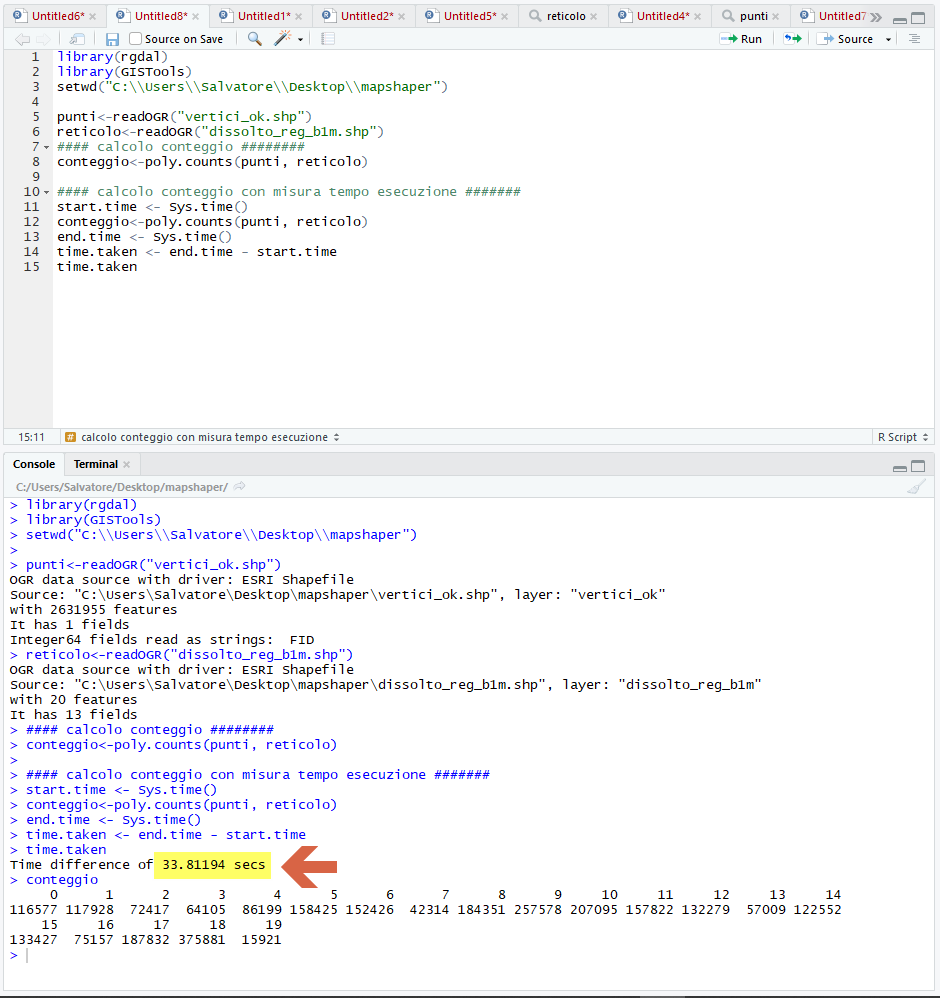
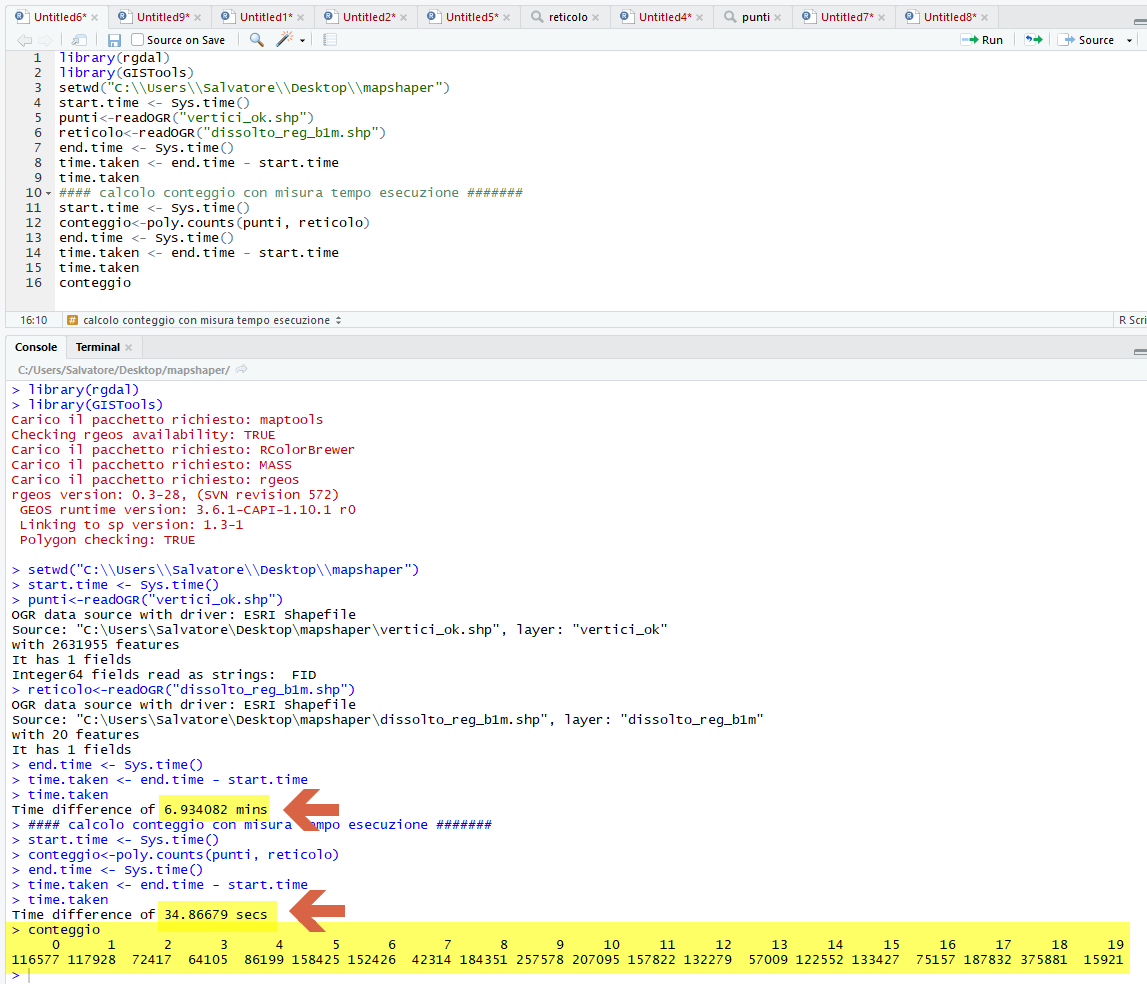
update R

diff --git a/prove/estrai_vertici.md b/prove/estrai_vertici.md
@@ -89,10 +89,10 @@ Osservazioni: restituisce un numero di punti minori ed esporto in csv!!!
 ```
 library(rgdal)
 ###lettura shapefile
+start.time <- Sys.time()#inizio cronometro
 setwd("C:\\Users\\Salvatore\\Desktop\\mapshaper")
 comuni<-readOGR("com01012018_wgs84.shp")
 #plot(comuni)
-
 ##estrazione vertici
 geom_list<-comuni@polygons
 vertices_list<-lapply(1:length(geom_list), function (x) geom_list[[x]]@Polygons[[1]]@coords)
@@ -100,9 +100,16 @@ vertices_data<-do.call(rbind.data.frame, vertices_list)
 vertices_points<-SpatialPoints(vertices_data, comuni@proj4string)#layer dei vertici
 #plot(vertices_points, pch = 19)#processo lungo, togliere # prim del plot per eseguire
 num_vertices<-length(vertices_points)#numero di vertici
+end.time <- Sys.time()
+time.taken <- end.time - start.time
+time.taken #fine cronometro
 ##esporta le coordinate in csv
+start.time <- Sys.time()#inizio cronometro
 write.csv2(vertices_data, file="dataset_single.csv", quote=F, na="", row.names=T)
-##stampa numerovertici estratti
+end.time <- Sys.time()
+time.taken <- end.time - start.time
+time.taken#fine cronometro
+##stampa numero vertici estratti
 num_vertices
 ```
 ![](../img/estrai_vertici/r_01.png)
@@ -117,7 +124,7 @@ tempo [sec]|programma
 340|SpatiaLite_GUI 2.10
 21|pgAdmin 3 con spatialIndex
 380|mapshaper
-67|R + RStudio
+17+54|R + RStudio
 
 ## RISULTATI (xxx) - estrai vertici
 

diff --git a/prove/conta_punti_poligono.md b/prove/conta_punti_poligono.md
@@ -77,22 +77,25 @@ time node  --max-old-space-size=4192 `which mapshaper` encoding=utf-8 dissolto_r
 
 ## R + RStudio
 
-Osservazione: occorrono circa 6 minuti per caricare i dati in memoria !!!
+Osservazione: occorrono circa 7 minuti per caricare i dati in memoria !!!
 
 ```
 library(rgdal)
 library(GISTools)
 setwd("C:\\Users\\Salvatore\\Desktop\\mapshaper")
-
+start.time <- Sys.time()
 punti<-readOGR("vertici_ok.shp")
 reticolo<-readOGR("dissolto_reg_b1m.shp")
-
+end.time <- Sys.time()
+time.taken <- end.time - start.time
+time.taken
 #### calcolo conteggio con misura tempo esecuzione #######
 start.time <- Sys.time()
 conteggio<-poly.counts(punti, reticolo)
 end.time <- Sys.time()
 time.taken <- end.time - start.time
 time.taken
+conteggio
 ```
 
 ![](../img/conta_punti_poligono/r_01.png)
@@ -109,7 +112,7 @@ tempo [sec]|programma
 ??|SpatiaLite_GUI 2.10
 ??|pgAdmin 3 con spatialIndex
 303|mapshaper
-34|R + RStudio
+420 + 35|R + RStudio
 
 ## RISULTATI (xxx) - estrai vertici
 
